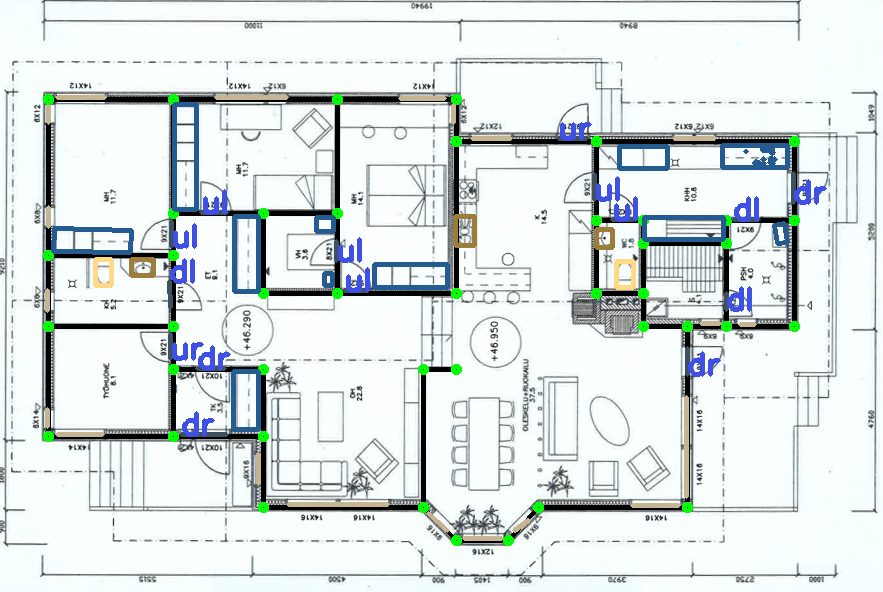
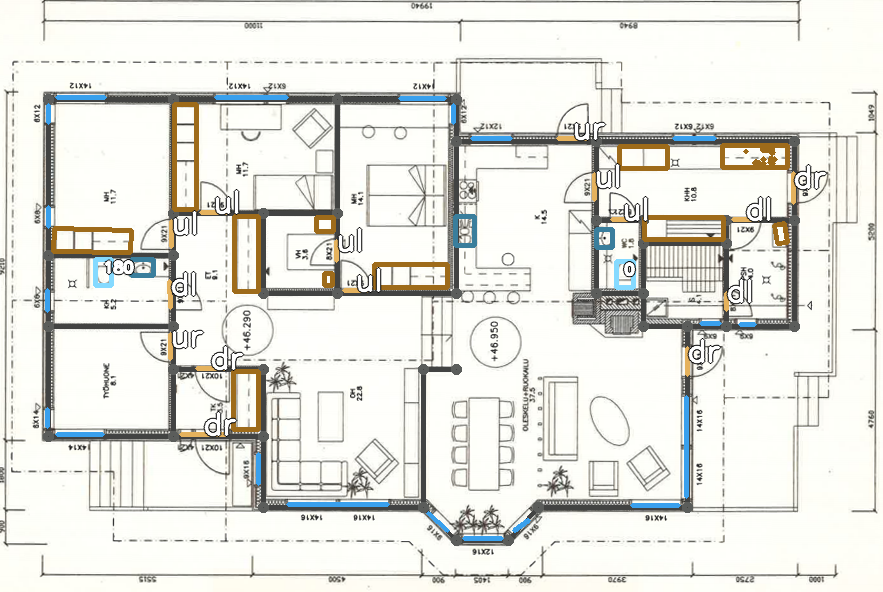
Improve visualization and add r2v

Changed region(s): [[0.0306, 0.152, 0.9479, 0.9426]]

diff --git a/recognition.py b/recognition.py
@@ -2,11 +2,8 @@ import cv2
 import numpy as np
 from tqdm import tqdm
 
-from residential.room_contour_simplification import simplify_contours
-from residential.wall_simplification import contours_to_walls
 from door_classification.door_classification import classify_door
-from segmentation import predict
-from utils.wall_width_calculation import calculate_width
+from toilet_classification import classify_toilet
 from utils.cluster_points import normalize_wall_points
 from utils.geometry import *
 
@@ -47,7 +44,7 @@ def element_segment(s):
 
     return segment(c - normal*half_width, c + normal*half_width)
 
-def attach_openings(walls, elements, verbose):
+def attach_openings(walls, elements, verbose=False):
     '''
         Changes walls destructively.
     '''
@@ -72,32 +69,54 @@ def attach_openings(walls, elements, verbose):
 
     return walls
 
+def putText(img, text, pos, size=1):
+    img = cv2.putText(
+        img, text, pos,
+        cv2.FONT_HERSHEY_SIMPLEX, size, (0, 0, 0), thickness=4, lineType=cv2.LINE_AA
+    )
+    img = cv2.putText(
+        img, text, pos,
+        cv2.FONT_HERSHEY_SIMPLEX, size, (255, 255, 255), thickness=2, lineType=cv2.LINE_AA
+        # cv2.FONT_HERSHEY_SIMPLEX, 1, (102, 255, 102), thickness=2, lineType=cv2.LINE_AA
+    )
+    return img
+
 def show_results(image, results, output_name):
-    reconstr = np.copy(image) #np.full(image.shape, 255).astype(np.uint8)
+    reconstr = np.copy(image)
+    # reconstr = np.full(image.shape, 255).astype(np.uint8)
     for wall in results['walls']:
         s, e = wall['points']
-        reconstr = cv2.line(reconstr, np.intp(s), np.intp(e), (0, 0, 0), 3)
-        reconstr = cv2.circle(reconstr, np.intp(s), 3, (0, 255, 0), 3)
-        reconstr = cv2.circle(reconstr, np.intp(e), 3, (0, 255, 0), 3)
+        reconstr = cv2.line(reconstr, np.intp(s), np.intp(e), (66, 67, 66), 3)
+        reconstr = cv2.circle(reconstr, np.intp(s), 3, (91, 93, 91), 3)
+        reconstr = cv2.circle(reconstr, np.intp(e), 3, (91, 93, 91), 3)
 
-        if 'elements'  in wall:
+    for wall in results['walls']:
+        if 'elements' in wall:
             for el in wall['elements']:
                 s, e = el['points']
                 if el['type'] == 'window':
-                    reconstr = cv2.line(reconstr, np.intp(s), np.intp(e), (147, 181, 198), 3)
+                    reconstr = cv2.line(reconstr, np.intp(s), np.intp(e), (57, 160, 237), 3)
                 else:
-                    reconstr = cv2.line(reconstr, np.intp(s), np.intp(e), (94, 80, 63), 3)
-                    reconstr = cv2.putText(
-                        reconstr, el['type'][-2:],
-                        np.intp(s),
-                        cv2.FONT_HERSHEY_SIMPLEX, 1, (230, 80, 63), 3, 2
-                    )
+                    reconstr = cv2.line(reconstr, np.intp(s), np.intp(e), (229, 178, 93), 3)
 
     icons = ('closet', 'toilet', 'sink', 'bathtub')
-    colors = ((145, 91, 36), (133, 218, 255),  (58, 126, 156), (201, 30, 173))
+    colors = ((158, 107, 26), (133, 218, 255),  (58, 126, 156), (201, 30, 173))
     for icon in results['icons']:
         reconstr = cv2.drawContours(reconstr, [np.intp(icon['points'])], 0, colors[icons.index(icon['type'])], 3)
 
+    for wall in results['walls']:
+        if 'elements' in wall:
+            for el in wall['elements']:
+                if el['type'] == 'door':
+                    centroid = np.intp(np.mean(el['points'], axis=0))
+                    reconstr = putText(reconstr, el['orientation'][-2:], centroid, 1)
+
+    for icon in results['icons']:
+        if icon['type'] == 'toilet':
+            centroid = np.intp(np.mean(icon['points'], axis=0))
+            reconstr = putText(reconstr, str(icon['orientation']), centroid, 0.5)
+
+    reconstr = cv2.cvtColor(reconstr, cv2.COLOR_RGB2BGR)
     cv2.imwrite(output_name, reconstr)
 
 def main(path, method, verbose=True):
@@ -116,10 +135,13 @@ def main(path, method, verbose=True):
     elif method == 'brute_force':
         from brute_force import recognize
         prediction = recognize(original, verbose)
+    elif method == 'r2v':
+        from raster_to_vector import recognize
+        prediction = recognize(path, verbose)
 
     walls, doors, windows = prediction['walls'], prediction['doors'], prediction['windows']
     walls = attach_openings(walls, doors + windows, verbose)
-    walls = normalize_wall_points(walls, 5)
+    walls = normalize_wall_points(walls, 5) # attach first because this might move walls slightly
 
     # this step can be merged with attach, probably not relevant
     logger.info('Classifying doors individually')
@@ -127,7 +149,13 @@ def main(path, method, verbose=True):
         if 'elements' in wall:
             for element in wall['elements']:
                 if element['type'] == 'door':
-                    element['type'] = classify_door(element, wall, original)
+                    element['orientation'] = classify_door(element, wall, original)
+
+    # predicting toilet rotation
+    logger.info('Classifying toilets individually')
+    for icon in tqdm(prediction['icons'], disable=not verbose):
+        if icon['type'] == 'toilet':
+            icon['orientation'] = classify_toilet(icon, original)
 
     logger.info('Finished')
     res = {'walls': walls, 'icons': prediction['icons']}
@@ -142,3 +170,4 @@ def main(path, method, verbose=True):
 if __name__ == '__main__':
     # print(main('original.png', 'residential'))
     print(main('original.png', 'brute_force'))
+    # print(main('r2v-image-rotated.jpg', 'r2v'))

diff --git a/raster_to_vector/FloorplanTransformation/utils.py b/raster_to_vector/FloorplanTransformation/utils.py
@@ -208,7 +208,7 @@ def drawPoints(filename, width, height, points, backgroundImage=None, pointSize=
     continue
 
   if filename != '':
-    cv2.imwrite(filename, image)
+    # cv2.imwrite(filename, image)
     return
   else:
     return image
@@ -224,7 +224,7 @@ def drawPointsSeparately(path, width, height, points, backgroundImage=None, poin
     image[max(int(round(point[1])) - pointSize, 0):min(int(round(point[1])) + pointSize, height), max(int(round(point[0])) - pointSize, 0):min(int(round(point[0])) + pointSize, width), int(point[2] * 4 + point[3])] = 255
     continue
   for channel in range(13):
-    cv2.imwrite(path + '_' + str(channel) + '.png', image[:, :, channel])
+    # cv2.imwrite(path + '_' + str(channel) + '.png', image[:, :, channel])
     continue
   return
 
@@ -298,7 +298,8 @@ def drawLines(filename, width, height, points, lines, lineLabels = [], backgroun
   if filename == '':
     return image
   else:
-    cv2.imwrite(filename, image)
+    # cv2.imwrite(filename, image)
+    return
 
 
 def drawRectangles(filename, width, height, points, rectangles, labels, lineWidth = 2, backgroundImage = None, rectangleColor = None):
@@ -336,8 +337,8 @@ def drawRectangles(filename, width, height, points, rectangles, labels, lineWidt
   if filename == '':
     return image
   else:
-    cv2.imwrite(filename, image)
-    pass
+    # cv2.imwrite(filename, image)
+    return
 
 def pointDistance(point_1, point_2):
     #return np.sqrt(pow(point_1[0] - point_2[0], 2) + pow(point_1[1] - point_2[1], 2))
